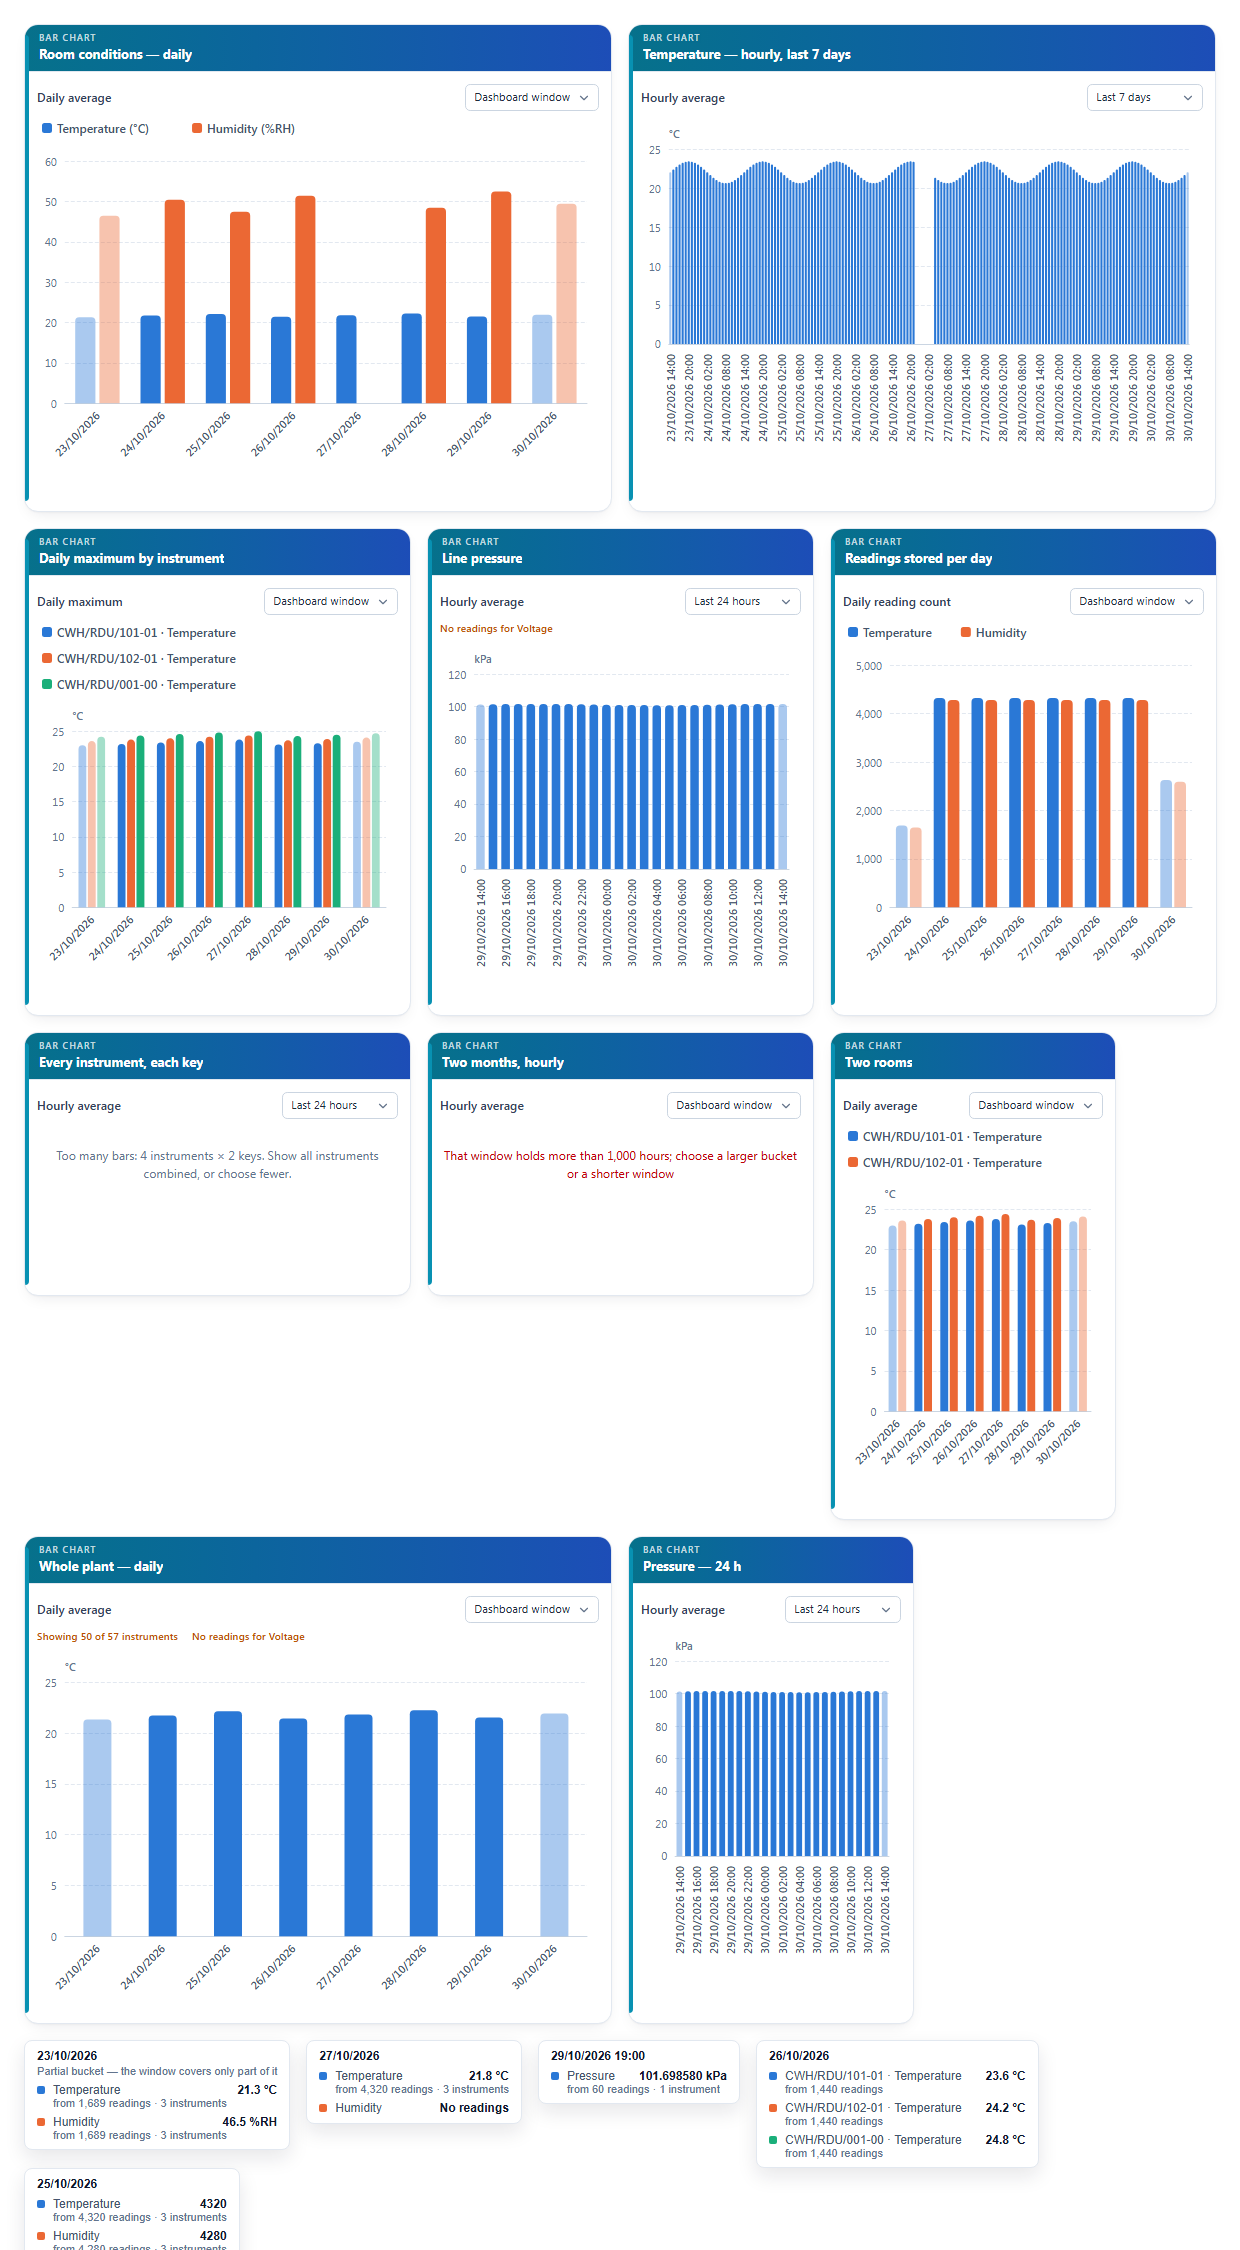
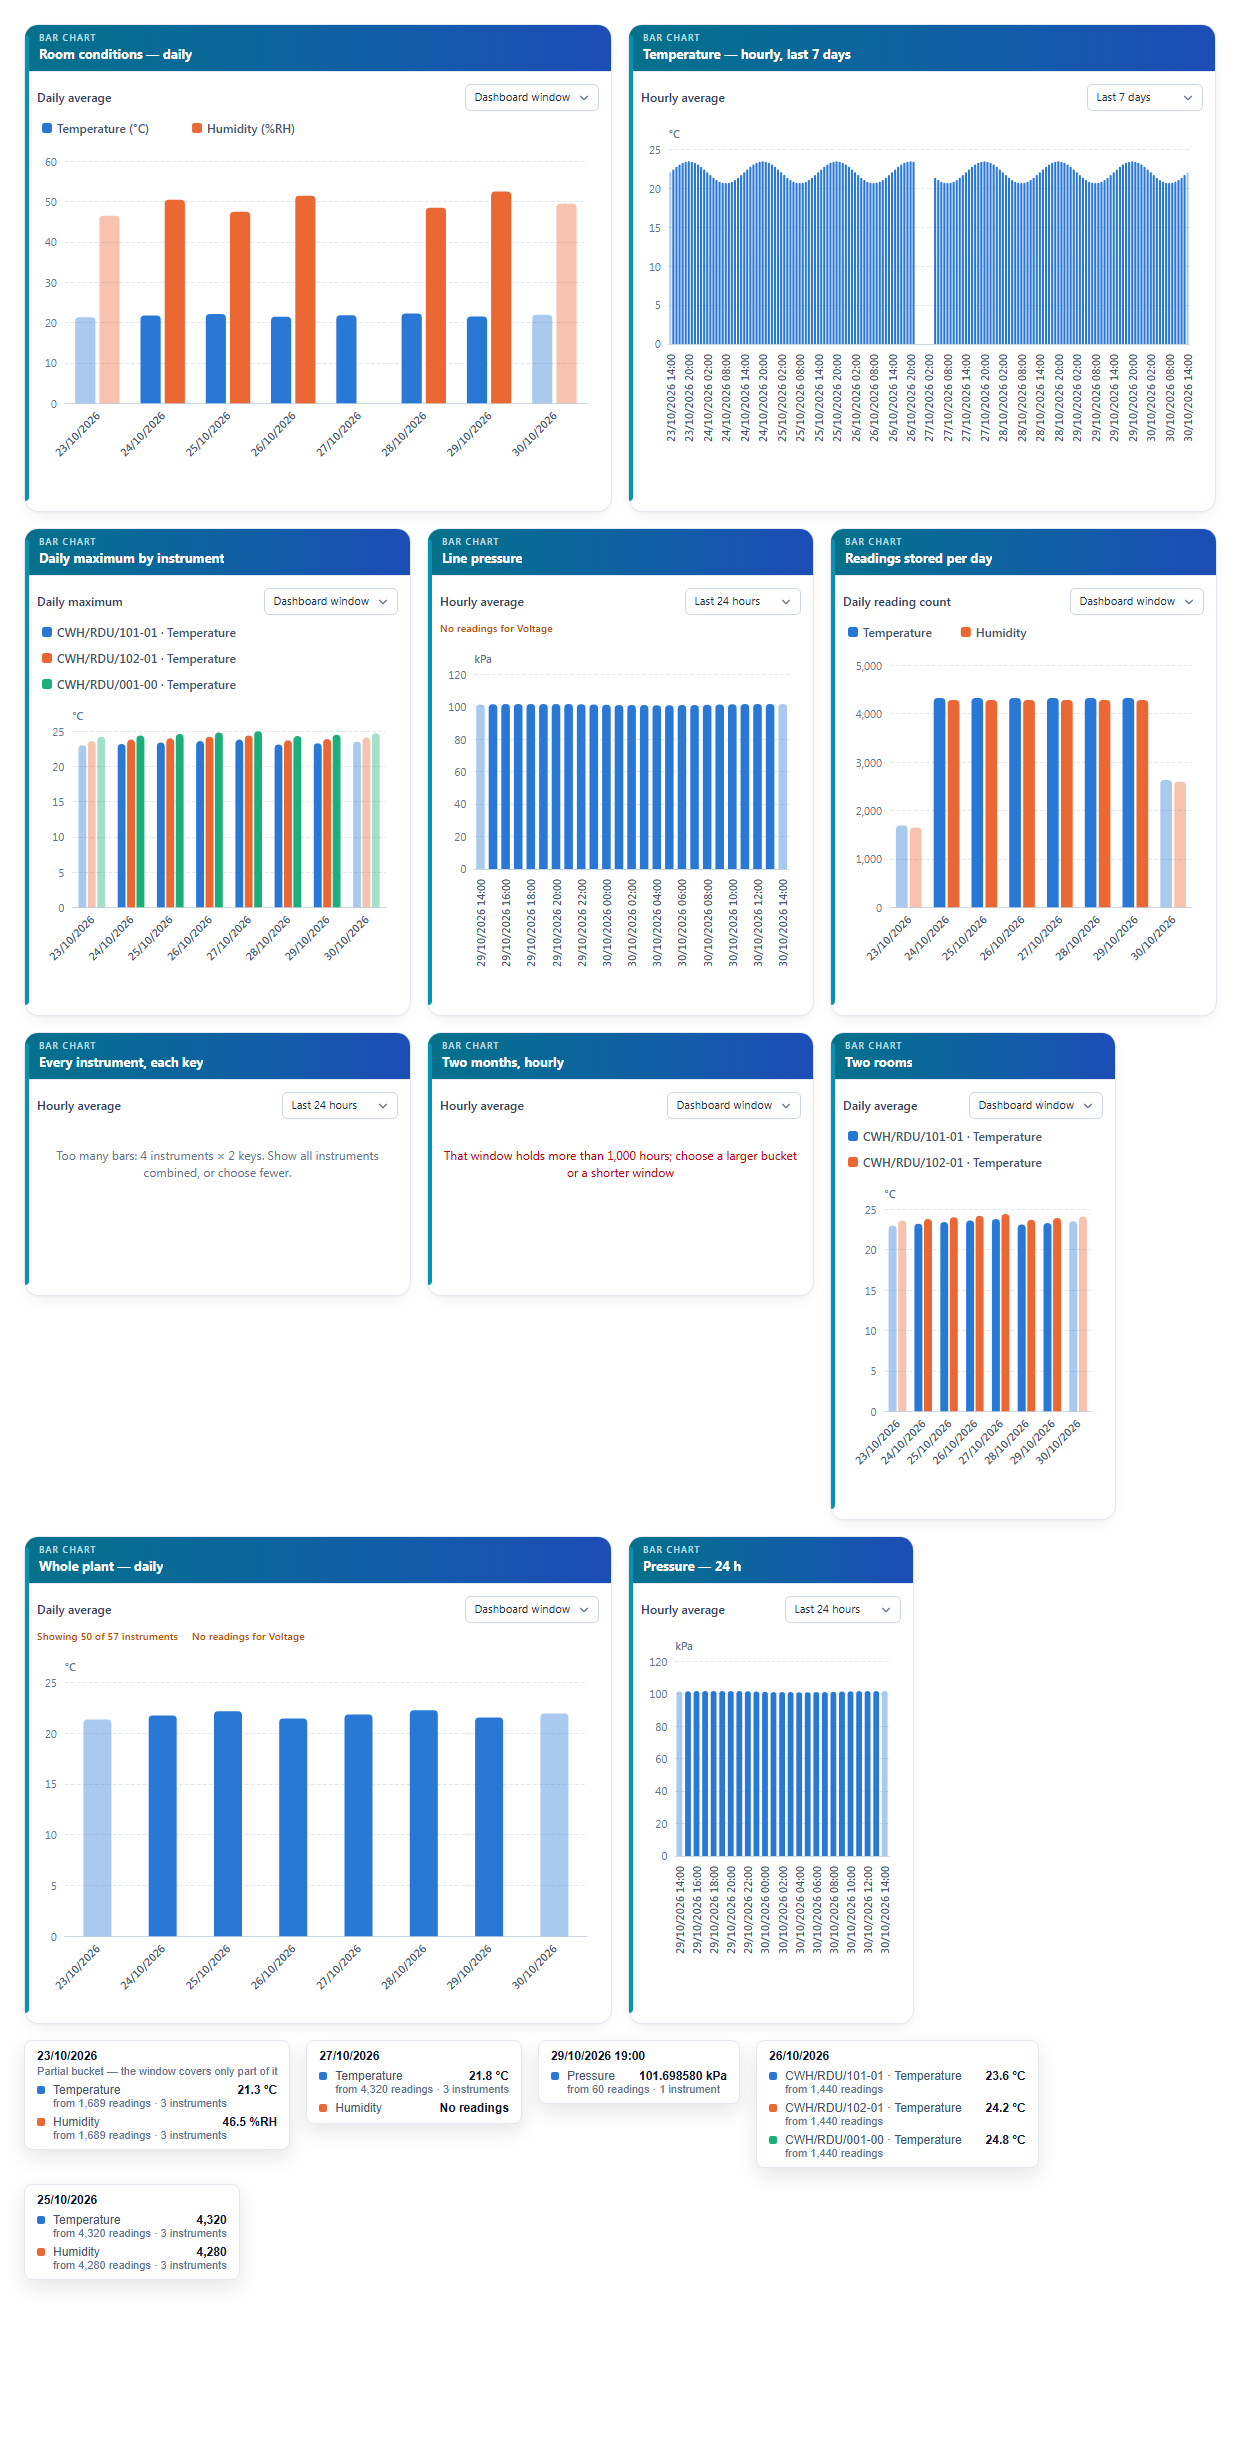
fix(web): a bar chart's count tooltip groups its figure; full-height render
A reading count in the bar tooltip printed "4320" beside "from 4,320
readings" and an axis of "5,000"; it is grouped now (a computed value
still prints at its decimals). The render-check PNG is re-shot taller,
so its tooltip strip is no longer cut by the shot.

diff --git a/apps/web/src/routes/dashboard/widgets/bar-chart-model.ts b/apps/web/src/routes/dashboard/widgets/bar-chart-model.ts
@@ -274,7 +274,10 @@ export function barTooltip(m: BarModel, index: number): string {
     : '';
   const lines = m.series.map((s) => {
     const p = s.points[index] ?? null;
-    const shown = p ? `${p.value.toFixed(s.decimals)}${s.unit ? ` ${s.unit}` : ''}` : 'No readings';
+    // A count is grouped like the "from N readings" beside it; a computed value
+    // prints at its decimals, as every reading in the app does.
+    const figure = (v: number) => (m.agg === 'count' ? Math.round(v).toLocaleString() : v.toFixed(s.decimals));
+    const shown = p ? `${figure(p.value)}${s.unit ? ` ${s.unit}` : ''}` : 'No readings';
     const basis = p
       ? [`from ${counted(p.readings, 'reading', 'readings')}`,
         ...(m.groupBy === 'all' ? [counted(p.instruments, 'instrument', 'instruments')] : [])].join(' · ')

diff --git a/apps/web/src/routes/dashboard/widgets/__tests__/bar-chart-model.test.ts b/apps/web/src/routes/dashboard/widgets/__tests__/bar-chart-model.test.ts
@@ -259,7 +259,8 @@ describe('barModel — decimals (R6-6), units, the tooltip', () => {
     const m = barModel(resp([series('t', [pt(day(1), 1440, 1440)])], { agg: 'count' }), [T], [row('a', [measured('t', 1)])], 'all', FMT);
     expect(m.series[0].decimals).toBe(0);
     expect(m.unit).toBeNull();
-    expect(barTooltip(m, 1)).toContain('>1440<');
+    // Grouped like the "from 1,440 readings" beside it and the axis's "5,000".
+    expect(barTooltip(m, 1)).toContain('>1,440<');
     const option = buildBarOption(m) as Record<string, any>;
     expect(option.yAxis.minInterval).toBe(1);
     expect(option.yAxis.name).toBe('');
